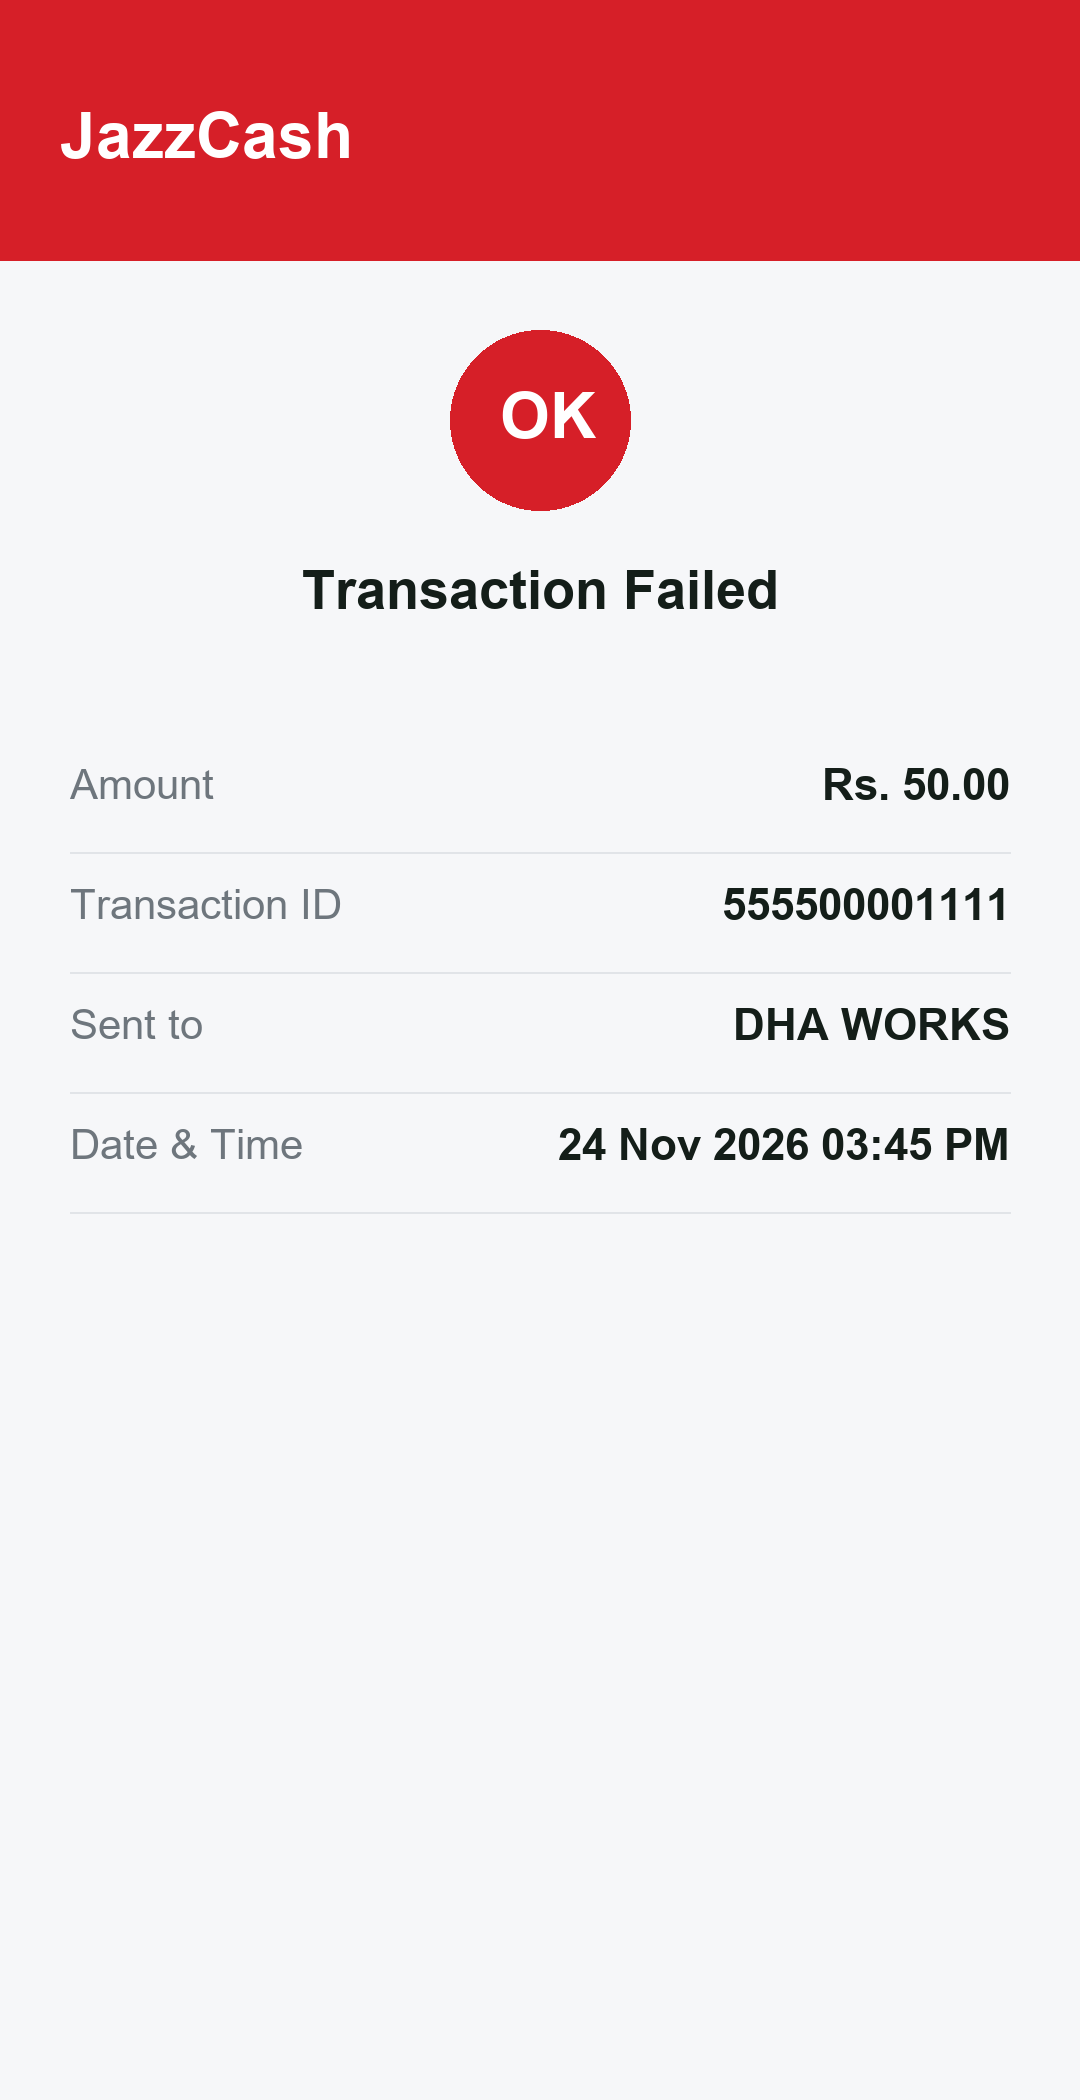
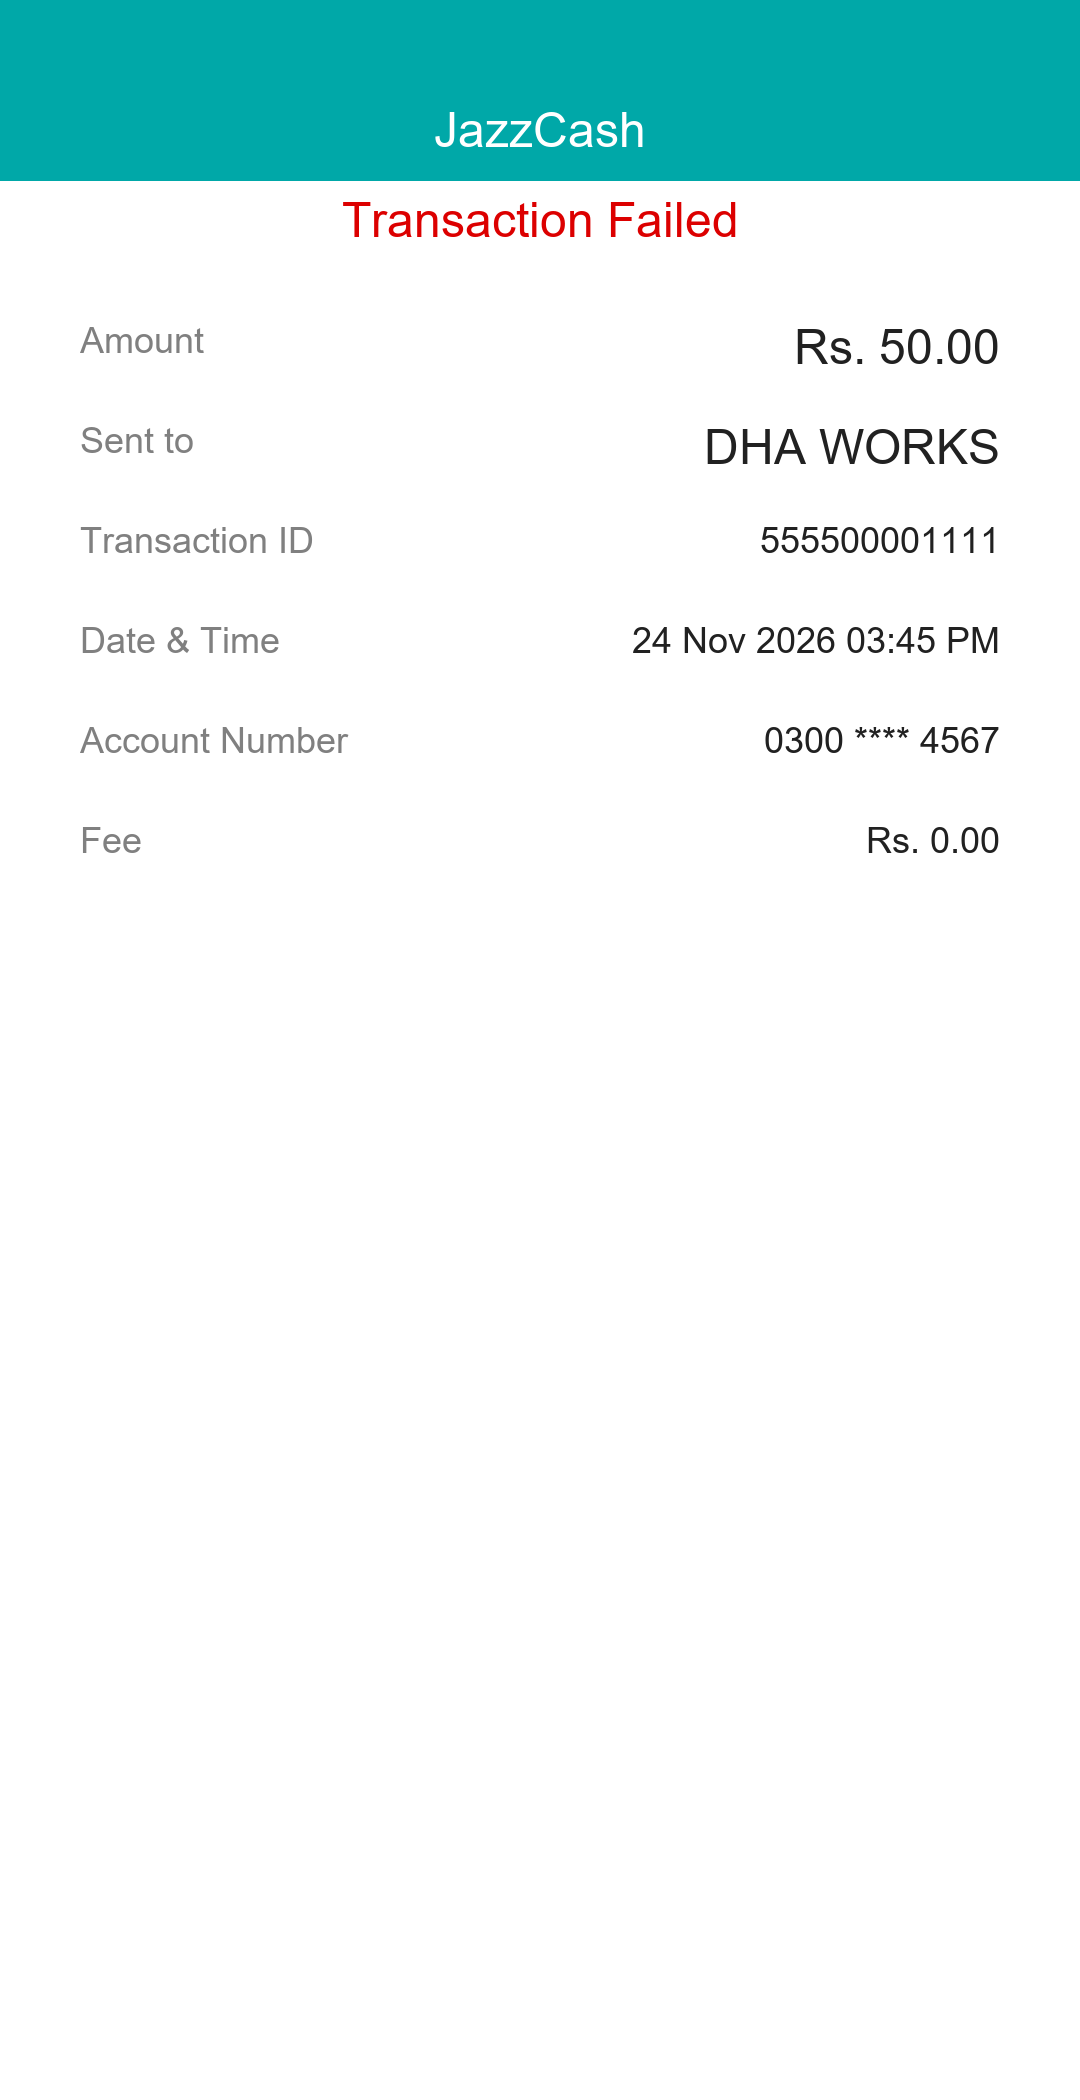
Screenshot reader: 3 visible account digits accepted, more fake screens, ignore accuracy reports
From the Kilo Code session, reviewed: visible_account keeps a 3 digit tail (the database still needs 4 to match
by number, so with 3 it falls back to the account title: no weaker); a bare 12+ digit run is a transaction ID, not an
account; an IBAN is returned whole. New fake screens (NayaPay, Other, amount mismatch). All 8 fakes: 35 of 35 checked
fields right, about 4.5 s each; 47 pytest pass. .gitignore: accuracy_report.csv and accuracy_summary.txt (they hold what
was read from real screenshots; the repository is public).

Claude-Session: https://claude.ai/code/session_018ndup8HMJ8vMJnBWkXe1vF

diff --git a/services/screenshot-reader/app/parsers/common.py b/services/screenshot-reader/app/parsers/common.py
@@ -109,17 +109,33 @@ _DATEISH = re.compile(r"(?<!\d)\d{1,2}[-/.]\d{1,2}[-/.]\d{2,4}(?!\d)|(?<!\d)\d{4
 
 def visible_account(text: str) -> str | None:
     """Only what is really shown of an account number. '0300 *** 4567' -> '4567'; 'PK36HABB0000123456789001' stays whole; a phone
-    number '+92 300 1234567' -> '923001234567'. Fewer than 4 visible trailing characters -> None (the receiver's name decides)."""
-    # An IBAN; or a number with at least 10 digits (a phone: 03001234567, +92 300 1234567); or a MASKED number (at least one * x # mark).
+    number '+92 300 1234567' -> '923001234567'. Fewer than 3 visible trailing characters -> None (the receiver's name decides)."""
+    # An IBAN (PK + 22-24 chars); or a Pakistani mobile (03xx..., 11 digits); or a phone with formatting (+, spaces, dashes);
+    # or a MASKED number (at least one * x # mark, with 3+ visible trailing digits).
+    # A bare run of 12+ digits with NO formatting is a transaction ID, not an account.
     # A short run of digits (a date such as "2026 03:45", an amount, a time) is never an account.
-    text = _DATEISH.sub(" ", text or "")  # a date or a time is never part of an account
-    m = re.search(r"PK\d{2}[A-Z0-9]{4}\d{16}|\+?\d(?:[\s\-]?\d){9,}|[0-9xX*•·#\s\-]*[*xX•·#][0-9xX*•·#\s\-]*\d{2,}", text, re.I)
-    if not m or len(re.sub(r"\s", "", m.group(0))) < 6:
+    text = _DATEISH.sub(" ", text or "")
+    # IBAN (Pakistan: PK + 22-24 chars) - return full match
+    m = re.search(r"PK\d{2}[A-Z0-9]{4,}\d{16}", text, re.I)
+    if m:
+        return m.group(0)
+    # Pakistani mobile: raw 11 digits starting with 03
+    m = re.search(r"\b03\d{9}\b", text)
+    if m:
+        return m.group(0)
+    # Phone with formatting: +92..., 0300-..., 0300 ..., or masked with * x # (3+ visible trailing digits)
+    m = re.search(r"(\+?\d[\d\s\-]{8,}\d|[0-9xX*•·#\s\-]*[*xX•·#][0-9xX*•·#\s\-]*\d{3,})", text, re.I)
+    if not m:
         return None
-    token = m.group(0)
+    token = m.group(1) if m.lastindex else m.group(0)
+    # Must have some formatting (space, dash, +, or mask char) or be an IBAN - otherwise it's a raw txn ID
+    if not re.search(r"[\s\-\+*xX•·#]", token):
+        return None
+    if len(re.sub(r"\s", "", token)) < 6:
+        return None
     parts = _MASK.split(token)
     tail = re.sub(r"[^A-Za-z0-9]", "", parts[-1]) if len(parts) > 1 else re.sub(r"[^A-Za-z0-9]", "", token)
-    return tail if len(tail) >= 4 else None
+    return tail if len(tail) >= 3 else None
 
 
 _FAILED = re.compile(r"\b(?:failed|failure|unsuccessful|declined|rejected|cancell?ed|reversed|insufficient)\b", re.I)

diff --git a/services/screenshot-reader/tests/test_common.py b/services/screenshot-reader/tests/test_common.py
@@ -54,6 +54,7 @@ def test_transaction_ids():
 def test_visible_account():
     assert visible_account("0300 *** 4567") == "4567"
     assert visible_account("03*******67") is None  # only two digits shown: not enough, the name decides
+    assert visible_account("03XX XXXX567") == "567"  # three digits shown (Easypaisa style)
     assert visible_account("PK36HABB0000123456789001") == "PK36HABB0000123456789001"
     assert visible_account("+92 300 1234567") == "923001234567"
     assert visible_account("03001234567") == "03001234567"
@@ -64,7 +65,7 @@ def test_visible_account():
     assert visible_account("24-11-2026 16:02") is None
     assert visible_account("Rs. 1,250.00") is None
     assert visible_account("0300 *****67") is None  # two digits shown: the name decides
-    assert visible_account("PK36XXXX0000001234567890") == "0000001234567890"
+    assert visible_account("PK36XXXX0000001234567890") == "PK36XXXX0000001234567890"
 
 
 def test_status():
